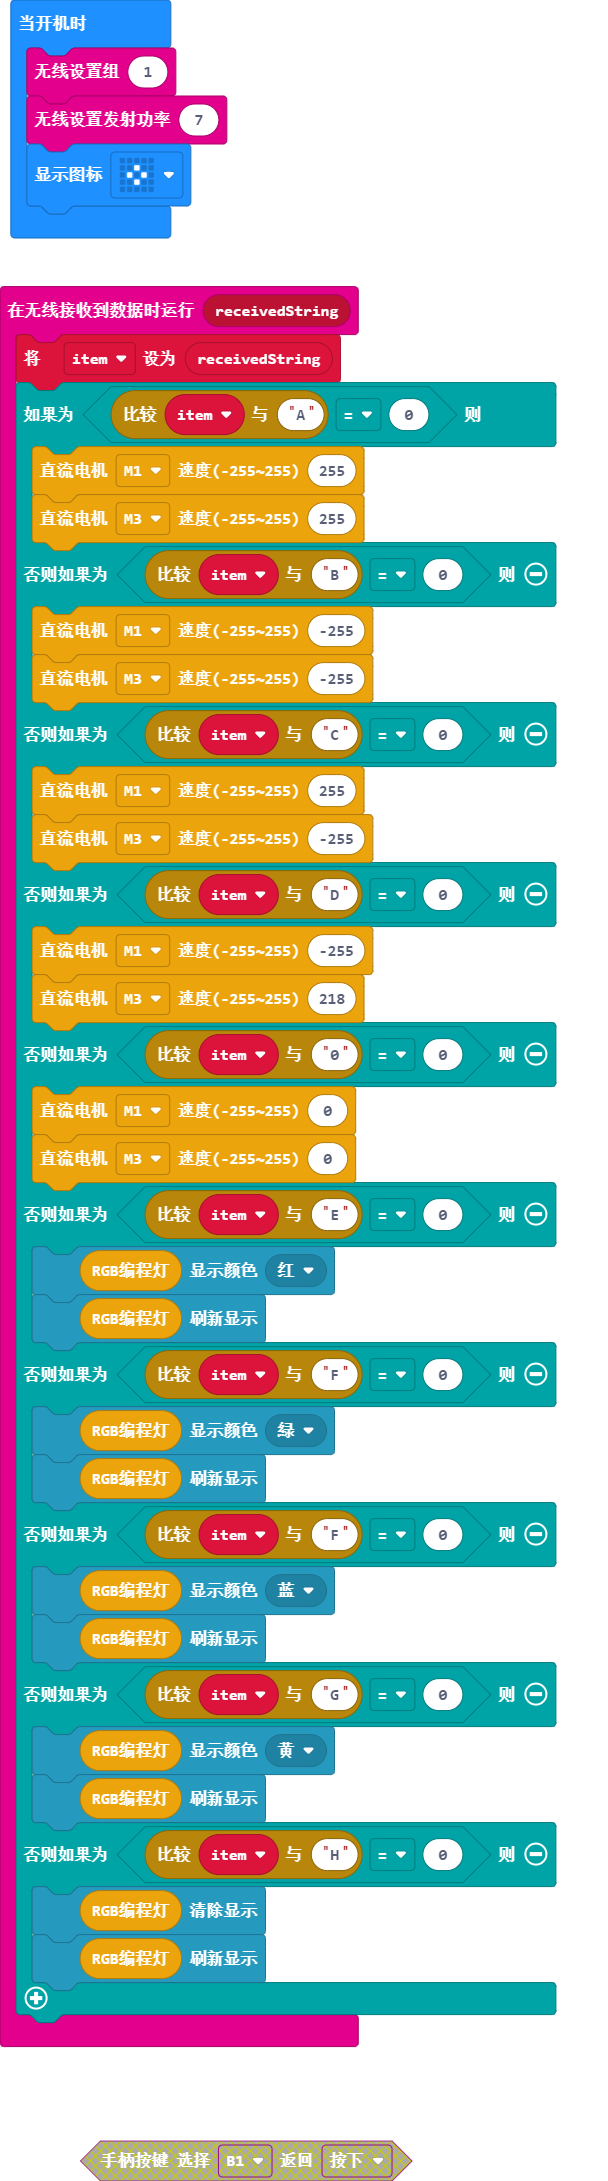
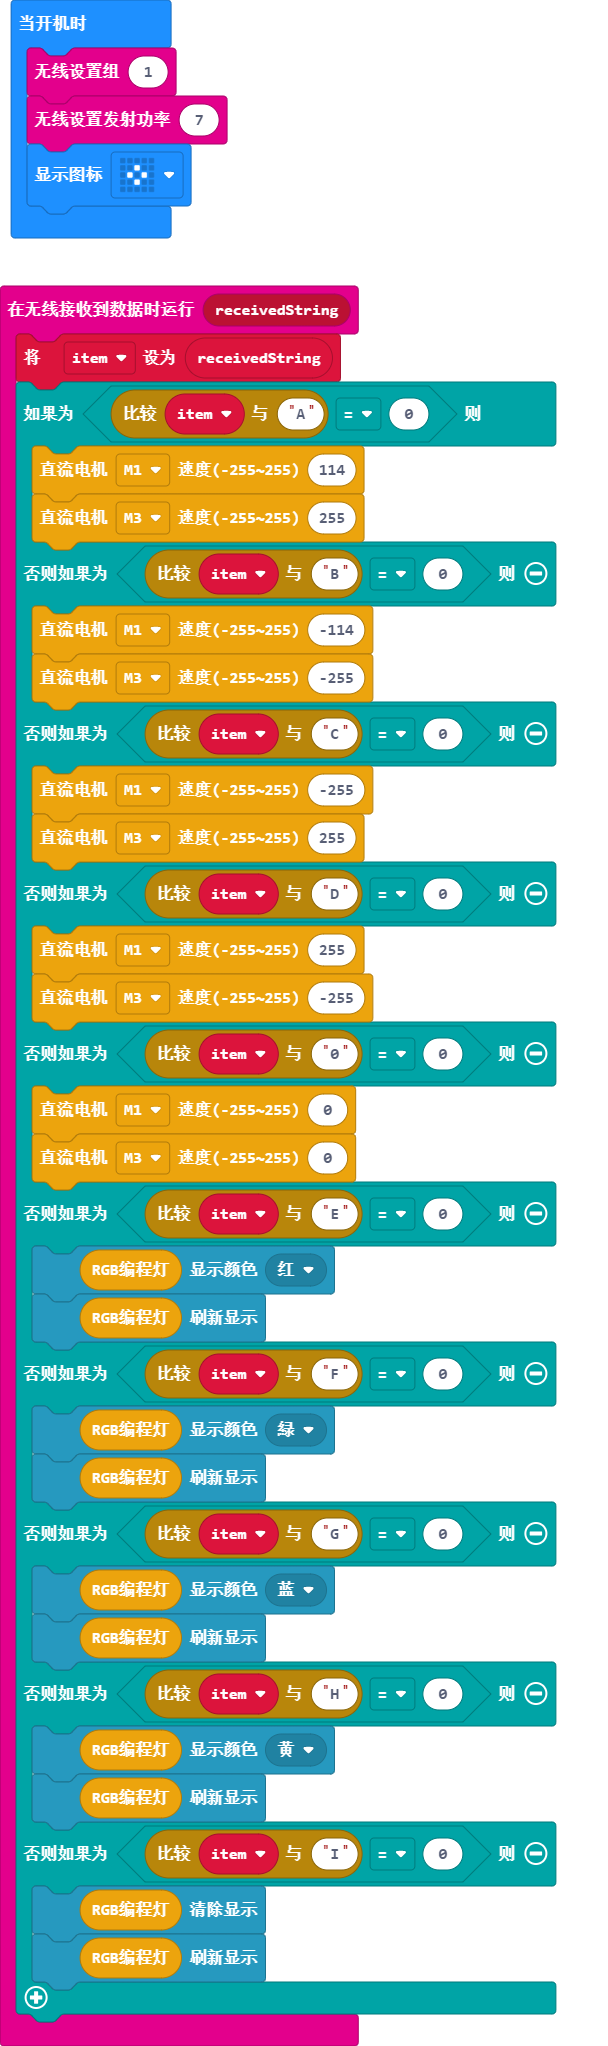
更新 main.blocks, main.ts

diff --git a/main.ts b/main.ts
@@ -1,17 +1,17 @@
 radio.onReceivedString(function (receivedString) {
     item = receivedString
     if (item.compare("A") == 0) {
-        SuperBit.MotorRun(SuperBit.enMotors.M1, 255)
+        SuperBit.MotorRun(SuperBit.enMotors.M1, 114)
         SuperBit.MotorRun(SuperBit.enMotors.M3, 255)
     } else if (item.compare("B") == 0) {
-        SuperBit.MotorRun(SuperBit.enMotors.M1, -255)
+        SuperBit.MotorRun(SuperBit.enMotors.M1, -114)
         SuperBit.MotorRun(SuperBit.enMotors.M3, -255)
     } else if (item.compare("C") == 0) {
+        SuperBit.MotorRun(SuperBit.enMotors.M1, -255)
+        SuperBit.MotorRun(SuperBit.enMotors.M3, 255)
+    } else if (item.compare("D") == 0) {
         SuperBit.MotorRun(SuperBit.enMotors.M1, 255)
         SuperBit.MotorRun(SuperBit.enMotors.M3, -255)
-    } else if (item.compare("D") == 0) {
-        SuperBit.MotorRun(SuperBit.enMotors.M1, -255)
-        SuperBit.MotorRun(SuperBit.enMotors.M3, 218)
     } else if (item.compare("0") == 0) {
         SuperBit.MotorRun(SuperBit.enMotors.M1, 0)
         SuperBit.MotorRun(SuperBit.enMotors.M3, 0)
@@ -21,13 +21,13 @@ radio.onReceivedString(function (receivedString) {
     } else if (item.compare("F") == 0) {
         SuperBit.RGB_Program().showColor(neopixel.colors(NeoPixelColors.Green))
         SuperBit.RGB_Program().show()
-    } else if (item.compare("F") == 0) {
+    } else if (item.compare("G") == 0) {
         SuperBit.RGB_Program().showColor(neopixel.colors(NeoPixelColors.Blue))
         SuperBit.RGB_Program().show()
-    } else if (item.compare("G") == 0) {
+    } else if (item.compare("H") == 0) {
         SuperBit.RGB_Program().showColor(neopixel.colors(NeoPixelColors.Yellow))
         SuperBit.RGB_Program().show()
-    } else if (item.compare("H") == 0) {
+    } else if (item.compare("I") == 0) {
         SuperBit.RGB_Program().clear()
         SuperBit.RGB_Program().show()
     }
